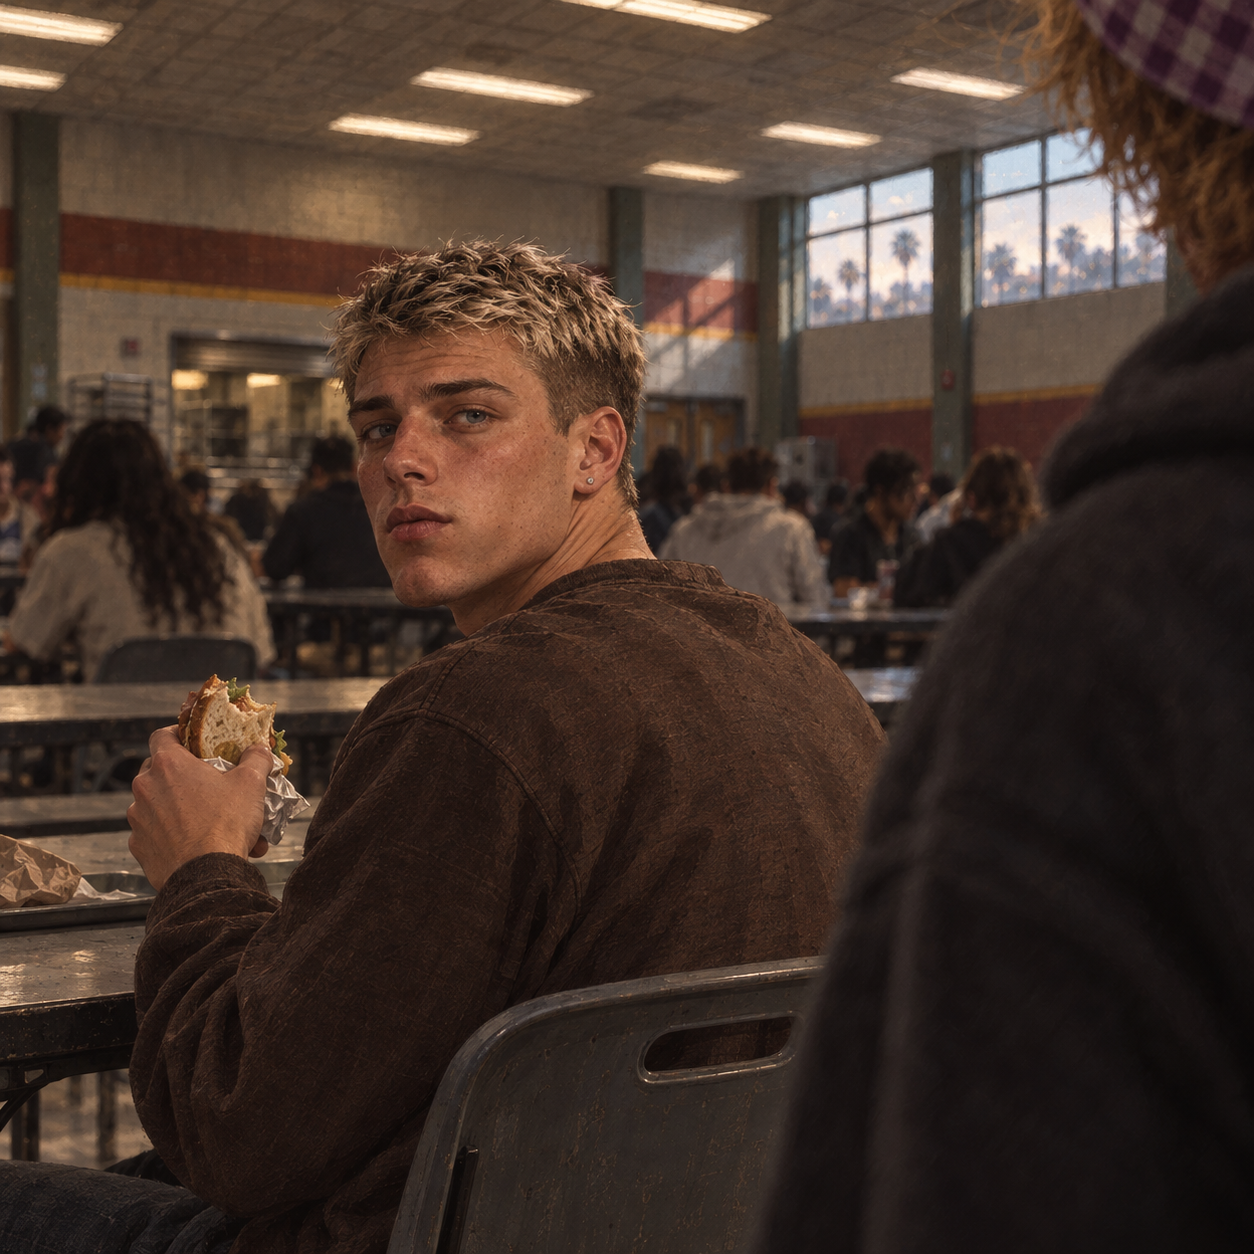
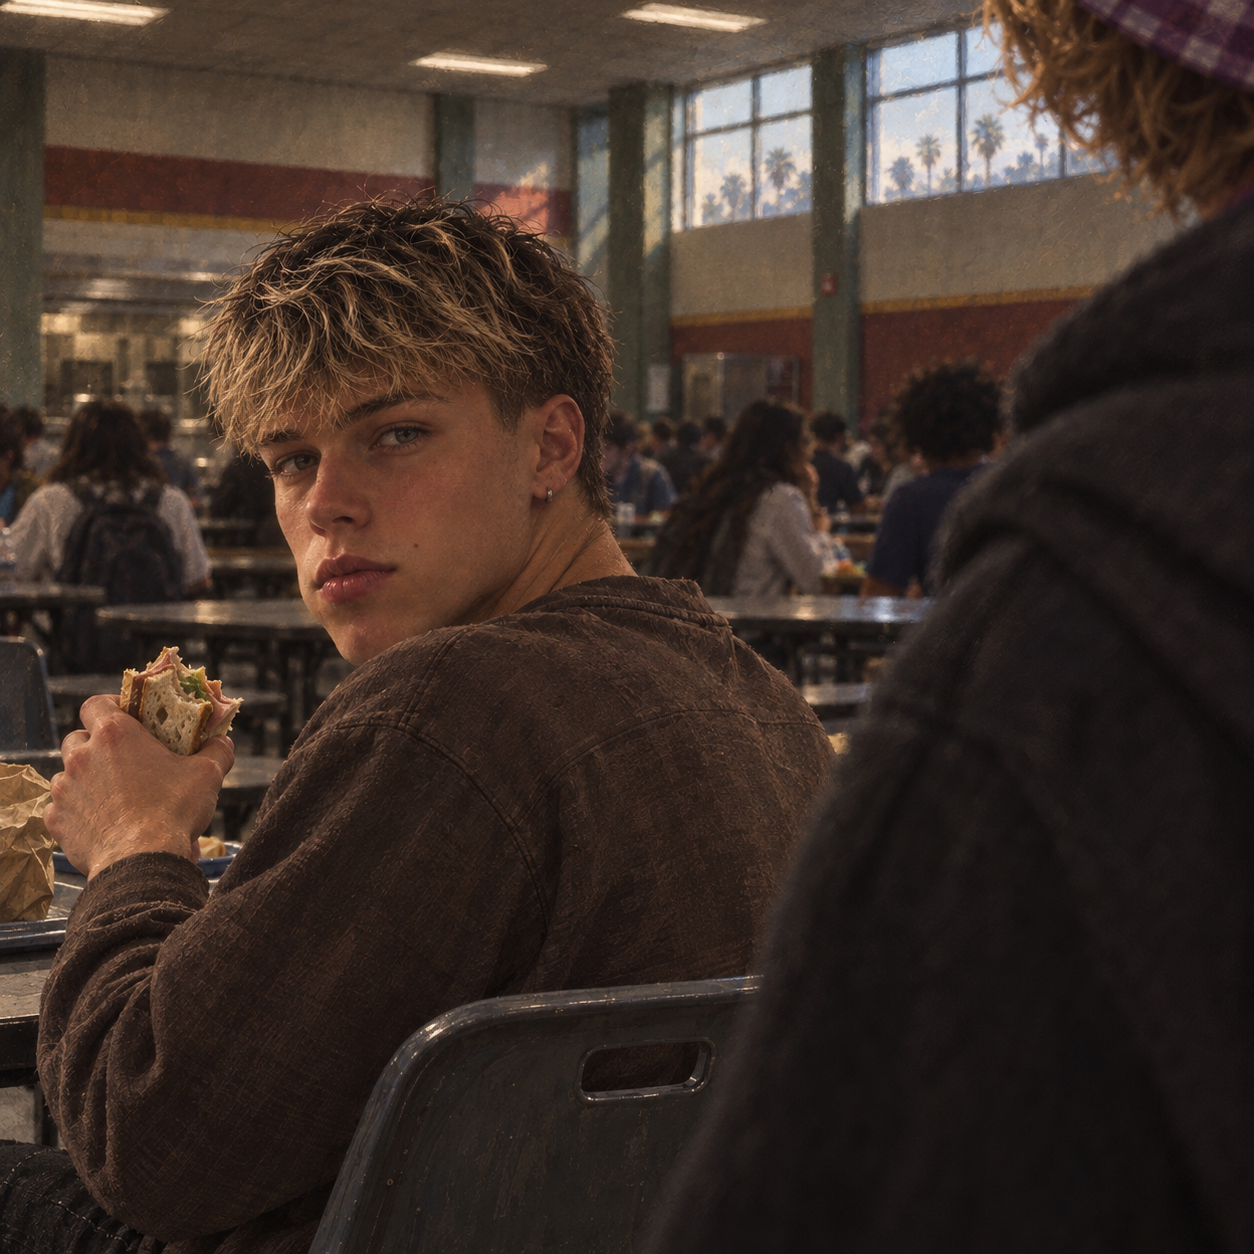
feat(the-transfer-kid): author's Marcus/Andrew designs, project-level refs
Replaces the generated Marcus and Andrew character sheets with the author's own
drawn designs and regenerates the five shots those two appear in. Character block
wording in the prompts is updated to match the new sheets — text and reference
image have to point at the same face or the two anchors fight each other.

Reference sheets move out of chapter-28/ to project level: assets/ for the
author's drawn designs, illustrations/refs/ for the sheets we generate and the
location sheets. Chapter 29 reuses them as-is; re-establishing a character per
chapter is what made the faces drift in the first pass.

15-urgent-care was rejected by output-stage moderation once Marcus's new sheet
was in play, so the shot is recomposed around his mother's exhaustion, which is
what that beat is actually about. The blocked prompt is kept alongside it.

Real-person photo references move to assets/_photo-refs/ and are gitignored.

diff --git a/the-transfer-kid/illustrations/chapter-28/prompts/15-urgent-care.md b/the-transfer-kid/illustrations/chapter-28/prompts/15-urgent-care.md
@@ -1,7 +1,34 @@
-Interior of a small urgent care examination room. A young man with cropped ash-blond hair sits on the paper-covered exam table, the ice pack now lowered into his lap, his lower lip visibly swollen, staring at nothing with a distant unfocused gaze. His mother stands beside him with one hand resting on his shoulder and her phone still clutched in the other, her face exhausted and worried. She wears work scrubs under an open cardigan, her dark hair pulled back. Flat clinical fluorescent light fills the room. A blue privacy curtain is half-drawn behind them, a wall-mounted hand-sanitiser dispenser is visible near the door, and the paper beneath him is crinkled. The mood is the quiet cost paid by someone who chose to protect a friend.
+A small urgent care waiting area, seen from across the room. A tired Latina woman
+in her forties sits on a molded plastic chair still wearing work scrubs under an
+open cardigan, her phone face-down on her knee, staring at nothing with the
+particular blankness of someone who left a shift halfway through. Beside her a
+young man sits slightly turned away from the camera, elbows on his knees, head
+down, a folded cold pack resting forgotten in his hands; his face is mostly
+hidden by the angle and by his hair. Flat clinical overhead light, a blue privacy
+curtain half drawn behind them, a hand-sanitiser dispenser on the wall, a stack of
+old magazines on the empty chair to their left. The composition is about the
+woman's exhaustion, not about the young man. Quiet, deflated, waiting-room mood.
 
-MARCUS — Young man with short cropped ash-blond hair over darker roots, no fringe over the forehead, squarer jaw than Justin, fair skin, light gray-blue eyes, one small stud in his left ear, medium athletic build, plain brown crewneck sweatshirt. Steady, level, unbothered expression.
+MARCUS — Young man with textured ash-blond hair over visibly darker roots, cut
+short at the sides with a choppy piecey fringe swept across the forehead, squarer
+jaw than Justin, fair skin, light gray-green eyes, one small silver hoop in his
+left ear, medium athletic build, plain brown crewneck sweatshirt. Steady, level,
+unbothered expression.
 
-MARCUS'S MOTHER — Latina woman in her forties, dark hair pulled back, work scrubs under an open cardigan, tired worried face.
+MARCUS'S MOTHER — Latina woman in her forties, dark hair pulled back, work scrubs
+under an open cardigan, tired worried face.
 
-Semi-realistic cinematic digital painting, American graphic novel / editorial concept-art aesthetic, painterly brushwork, realistic human anatomy and facial features, natural skin texture, dramatic cinematic lighting with deep shadows and subtle highlights, muted earthy color palette (rust, olive, dust brown, cool dusk blue), atmospheric depth, realistic contemporary Los Angeles environments, expressive but restrained facial expressions, detailed yet painterly rendering, slightly gritty film-grain texture, sophisticated editorial concept art, grounded realism, cinematic color grading. Subjects are ordinary lean-built young adults, NOT bodybuilders: slim-athletic or average build only, no exaggerated muscle definition, no adult gym physique. Not anime, not manga, not cartoon, not photorealistic photo, not glossy 3D render. Any lettering in the image must be spelled exactly as specified and rendered as clean hand-lettered American graphic-novel text; do not invent any additional words, signage, captions, logos or watermarks anywhere in the frame.
+Semi-realistic cinematic digital painting, American graphic novel / editorial
+concept-art aesthetic, painterly brushwork, realistic human anatomy and facial
+features, natural skin texture, dramatic cinematic lighting with deep shadows and
+subtle highlights, muted earthy color palette (rust, olive, dust brown, cool dusk
+blue), atmospheric depth, realistic contemporary Los Angeles interiors, expressive
+but restrained facial expressions, detailed yet painterly rendering, slightly
+gritty film-grain texture, sophisticated editorial concept art, grounded realism,
+cinematic color grading. Subjects are ordinary lean-built young adults, NOT
+bodybuilders: slim-athletic or average build only, no exaggerated muscle
+definition, no adult gym physique. Not anime, not manga, not cartoon, not
+photorealistic photo, not glossy 3D render. Any lettering in the image must be
+spelled exactly as specified and rendered as clean hand-lettered American
+graphic-novel text; do not invent any additional words, signage, captions, logos
+or watermarks anywhere in the frame.

diff --git a/the-transfer-kid/illustrations/chapter-28/prompts/15-urgent-care.v1-blocked.md b/the-transfer-kid/illustrations/chapter-28/prompts/15-urgent-care.v1-blocked.md
@@ -1,7 +1,7 @@
-Flashback, the aftermath. Wide shot from a slightly low angle in a cafeteria. A young man with cropped ash-blond hair is on the tile floor, propped on one elbow, looking upward with a blank calculating expression, trying to process what just happened. An overturned plastic lunch tray lies beside him, surrounded by scattered plastic forks and tater tots. Standing over him is a second young man with his right fist still shaking at his side, breathing through clenched teeth, shoulders rigid. A ring of frozen onlookers frames the edges of the composition, some with phones half-raised. Harsh flat overhead fluorescent strips cast hard shadowless light across the institutional tile and long tables. The mood is the immediate aftermath of violence, the room holding its breath.
+Interior of a small urgent care examination room. A young man with cropped ash-blond hair sits on the paper-covered exam table, the ice pack now lowered into his lap, his lower lip visibly swollen, staring at nothing with a distant unfocused gaze. His mother stands beside him with one hand resting on his shoulder and her phone still clutched in the other, her face exhausted and worried. She wears work scrubs under an open cardigan, her dark hair pulled back. Flat clinical fluorescent light fills the room. A blue privacy curtain is half-drawn behind them, a wall-mounted hand-sanitiser dispenser is visible near the door, and the paper beneath him is crinkled. The mood is the quiet cost paid by someone who chose to protect a friend.
 
 MARCUS — Young man with textured ash-blond hair over visibly darker roots, cut short at the sides with a choppy piecey fringe swept across the forehead, squarer jaw than Justin, fair skin, light gray-green eyes, one small silver hoop in his left ear, medium athletic build, plain brown crewneck sweatshirt. Steady, level, unbothered expression.
 
-JUSTIN — Young man with shaggy golden-blond hair, slightly wavy, falling messy over his forehead and curling past his ears; fair sun-flushed skin with faint freckles across the nose; straight nose with a small silver nose ring in the right nostril; several small silver hoop earrings in both ears; full mouth, soft jaw, tired green-hazel eyes; slim build. He wears a purple-and-white gingham checked bucket hat pushed back on his head, a dusty rose-pink tee under an oversized charcoal-gray hoodie, dark jeans and low-top sneakers. The knuckles of his right hand are swollen and mottled dark red and blue.
+MARCUS'S MOTHER — Latina woman in her forties, dark hair pulled back, work scrubs under an open cardigan, tired worried face.
 
 Semi-realistic cinematic digital painting, American graphic novel / editorial concept-art aesthetic, painterly brushwork, realistic human anatomy and facial features, natural skin texture, dramatic cinematic lighting with deep shadows and subtle highlights, muted earthy color palette (rust, olive, dust brown, cool dusk blue), atmospheric depth, realistic contemporary Los Angeles environments, expressive but restrained facial expressions, detailed yet painterly rendering, slightly gritty film-grain texture, sophisticated editorial concept art, grounded realism, cinematic color grading. Subjects are ordinary lean-built young adults, NOT bodybuilders: slim-athletic or average build only, no exaggerated muscle definition, no adult gym physique. Not anime, not manga, not cartoon, not photorealistic photo, not glossy 3D render. Any lettering in the image must be spelled exactly as specified and rendered as clean hand-lettered American graphic-novel text; do not invent any additional words, signage, captions, logos or watermarks anywhere in the frame.

diff --git a/the-transfer-kid/illustrations/chapter-28/prompts/12-marcus-turning.md b/the-transfer-kid/illustrations/chapter-28/prompts/12-marcus-turning.md
@@ -1,6 +1,6 @@
 Flashback scene, the instant before the punch. A young man is seated on a gray plastic cafeteria chair at a long institutional table, turning back over his shoulder toward the camera with a half-eaten sandwich in one hand. His face is completely open and relaxed, expecting nothing, mouth mid-chew, eyes curious and unbothered. Long cafeteria tables recede behind him, populated by blurred indistinct figures. Harsh flat overhead fluorescent light washes the scene. At the very edge of the right side of the frame, an out-of-focus dark shoulder and the curve of a hoodie sleeve enter, belonging to the person approaching from behind. The mood is the last ordinary second before everything breaks.
 
-MARCUS — Young man with short cropped ash-blond hair over darker roots, no fringe over the forehead, squarer jaw than Justin, fair skin, light gray-blue eyes, one small stud in his left ear, medium athletic build, plain brown crewneck sweatshirt. Steady, level, unbothered expression.
+MARCUS — Young man with textured ash-blond hair over visibly darker roots, cut short at the sides with a choppy piecey fringe swept across the forehead, squarer jaw than Justin, fair skin, light gray-green eyes, one small silver hoop in his left ear, medium athletic build, plain brown crewneck sweatshirt. Steady, level, unbothered expression.
 
 JUSTIN — Young man with shaggy golden-blond hair, slightly wavy, falling messy over his forehead and curling past his ears; fair sun-flushed skin with faint freckles across the nose; straight nose with a small silver nose ring in the right nostril; several small silver hoop earrings in both ears; full mouth, soft jaw, tired green-hazel eyes; slim build. He wears a purple-and-white gingham checked bucket hat pushed back on his head, a dusty rose-pink tee under an oversized charcoal-gray hoodie, dark jeans and low-top sneakers. The knuckles of his right hand are swollen and mottled dark red and blue.
 

diff --git a/the-transfer-kid/illustrations/chapter-28/prompts/00-style-and-characters.md b/the-transfer-kid/illustrations/chapter-28/prompts/00-style-and-characters.md
@@ -8,9 +8,9 @@ JUSTIN — Young man with shaggy golden-blond hair, slightly wavy, falling messy
 
 SAMIRA — South-Asian-American young woman, dark hair loose past her shoulders, sharp observant dark eyes, straight brows, calm unreadable expression, medium build. Oversized light-blue denim jacket with the sleeves rolled to the elbow over a plain white tee, dark jeans, small gold stud earrings.
 
-MARCUS — Young man with short cropped ash-blond hair over darker roots, no fringe over the forehead, squarer jaw than Justin, fair skin, light gray-blue eyes, one small stud in his left ear, medium athletic build, plain brown crewneck sweatshirt. Steady, level, unbothered expression.
+MARCUS — Young man with textured ash-blond hair over visibly darker roots, cut short at the sides with a choppy piecey fringe swept across the forehead, squarer jaw than Justin, fair skin, light gray-green eyes, one small silver hoop in his left ear, medium athletic build, plain brown crewneck sweatshirt. Steady, level, unbothered expression.
 
-ANDREW — Young man with dark brown hair, deliberately messy, dark brown eyes, pale even skin, still and self-possessed posture, slim build. Plain black zip jacket over a clean white shirt, nothing flashy, a thin silver bracelet on his left wrist.
+ANDREW — Young man with thick dark brown hair, deliberately messy with a long fringe falling across the forehead and over the ears, dark brown eyes, warm olive-pale skin, straight nose, full mouth, still and self-possessed posture, slim build. Plain black zip jacket over a clean white shirt, nothing flashy, a thin silver bracelet on his left wrist.
 
 MARCUS'S MOTHER — Latina woman in her forties, dark hair pulled back, work scrubs under an open cardigan, tired worried face.
 

diff --git a/the-transfer-kid/illustrations/chapter-28/prompts/04-east-gate.md b/the-transfer-kid/illustrations/chapter-28/prompts/04-east-gate.md
@@ -2,7 +2,7 @@ Flashback scene, late-afternoon side light. A young man stands square and still 
 
 A graphic-novel speech balloon from the young man at the gate reads "Marcus isn't from Westbrook." and a smaller second balloon below it reads "He minds his own business."
 
-ANDREW — Young man with dark brown hair, deliberately messy, dark brown eyes, pale even skin, still and self-possessed posture, slim build. Plain black zip jacket over a clean white shirt, nothing flashy, a thin silver bracelet on his left wrist.
+ANDREW — Young man with thick dark brown hair, deliberately messy with a long fringe falling across the forehead and over the ears, dark brown eyes, warm olive-pale skin, straight nose, full mouth, still and self-possessed posture, slim build. Plain black zip jacket over a clean white shirt, nothing flashy, a thin silver bracelet on his left wrist.
 
 JUSTIN — Young man with shaggy golden-blond hair, slightly wavy, falling messy over his forehead and curling past his ears; fair sun-flushed skin with faint freckles across the nose; straight nose with a small silver nose ring in the right nostril; several small silver hoop earrings in both ears; full mouth, soft jaw, tired green-hazel eyes; slim build. He wears a purple-and-white gingham checked bucket hat pushed back on his head, a dusty rose-pink tee under an oversized charcoal-gray hoodie, dark jeans and low-top sneakers. The knuckles of his right hand are swollen and mottled dark red and blue.
 

diff --git a/the-transfer-kid/illustrations/chapter-28/prompts/14-marcus-lying.md b/the-transfer-kid/illustrations/chapter-28/prompts/14-marcus-lying.md
@@ -2,7 +2,7 @@ Interior of a cramped administrative office. A young man with cropped ash-blond 
 
 A graphic-novel speech balloon from the young man with the ice pack reads "I slipped." and a second smaller balloon from him reads "There was milk on the floor."
 
-MARCUS — Young man with short cropped ash-blond hair over darker roots, no fringe over the forehead, squarer jaw than Justin, fair skin, light gray-blue eyes, one small stud in his left ear, medium athletic build, plain brown crewneck sweatshirt. Steady, level, unbothered expression.
+MARCUS — Young man with textured ash-blond hair over visibly darker roots, cut short at the sides with a choppy piecey fringe swept across the forehead, squarer jaw than Justin, fair skin, light gray-green eyes, one small silver hoop in his left ear, medium athletic build, plain brown crewneck sweatshirt. Steady, level, unbothered expression.
 
 VICE PRINCIPAL DAVIES — Balding white man in his fifties, wire-frame glasses, short-sleeved dress shirt and tie, flat unimpressed expression.
 
